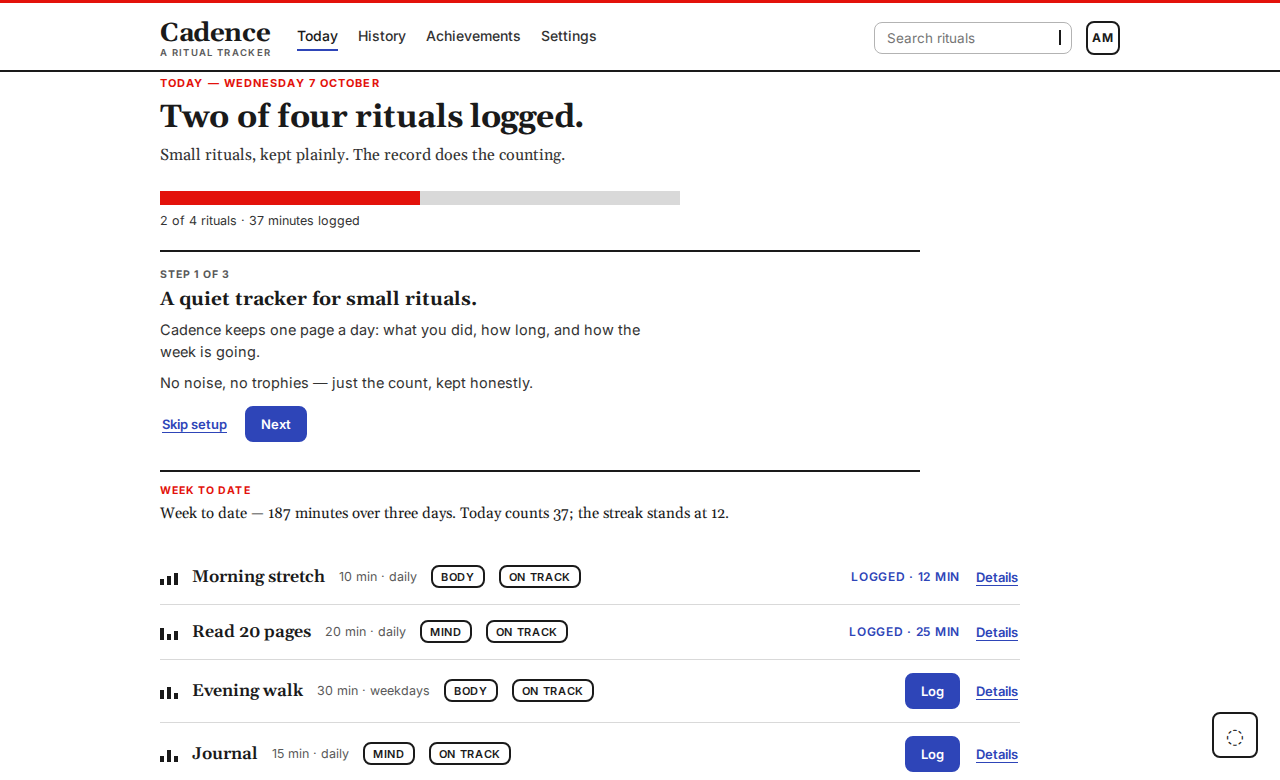
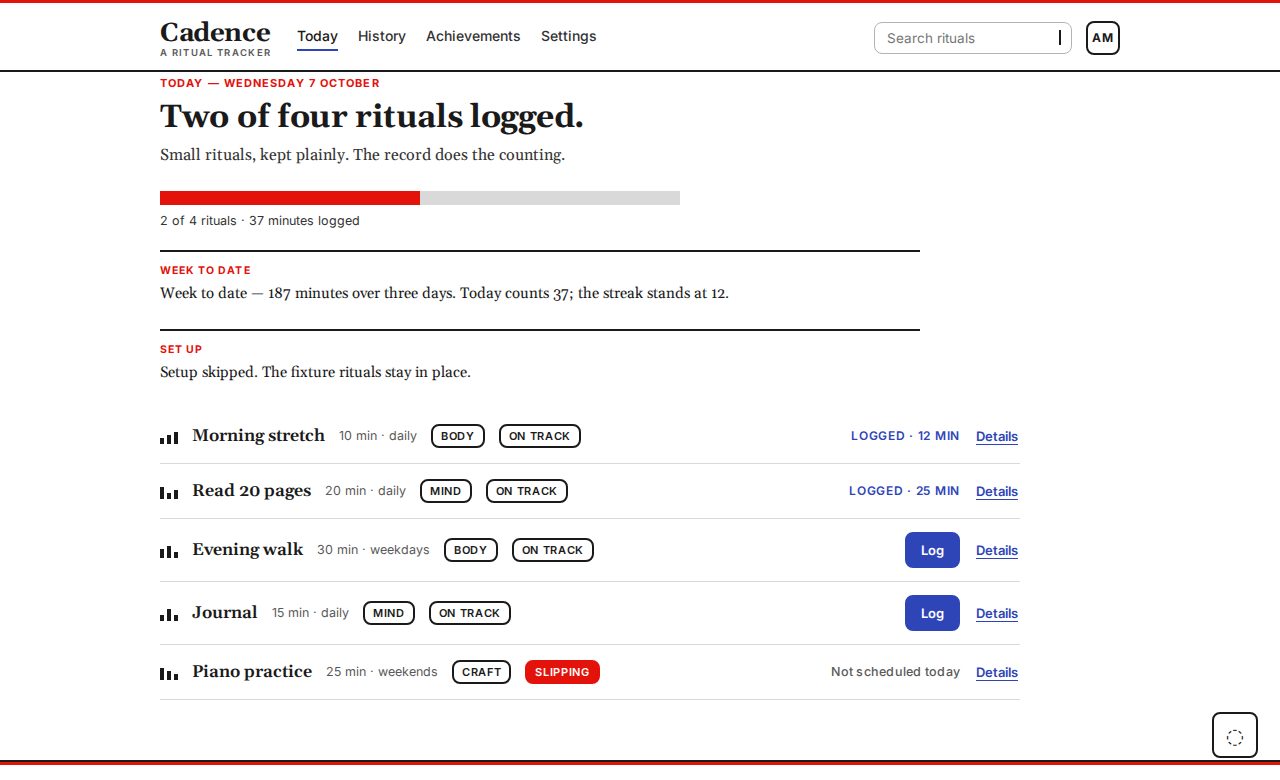
see-it-work: leader screenshot re-captured clean, wink+leader URLs cache-busted
- leader card had its 'STEP 1 OF 3 / Skip setup / Next' panel in frame; re-shot
  after clicking through the skip control
- wink + leader img srcs now carry ?v=2 so phone and CDN caches pick up the new
  files on next load (the old URLs were still cached for up to 4h; the files
  themselves were already correct)
- all three cards verified clean at mobile width; lint 0/0 score 100

Changed region(s): [[0.0, 0.3385, 1.0, 1.0]]

diff --git a/examples/designauthority-site/index.html b/examples/designauthority-site/index.html
@@ -59,14 +59,14 @@
     dashed element to inspect its case.</p>
     <div class="da-grid3" data-improv="app showcase" title="Improvised (no authority record; gap filed)">
       <div class="card da-appshot">
-        <img src="/assets/img/cadence-wink.png" alt="The Cadence habit tracker as built under the Wink authority">
+        <img src="/assets/img/cadence-wink.png?v=2" alt="The Cadence habit tracker as built under the Wink authority">
         <div class="da-appshot-body">
           <div class="card-h"><h3>Wink · expressive</h3></div>
           <p class="da-links mono"><a href="/authorities/wink/demo/cadence-v3/">Open the app</a> · <a href="/authorities/wink/demo/cadence-v3/#lens">open with the lens on</a></p>
         </div>
       </div>
       <div class="card da-appshot">
-        <img src="/assets/img/cadence-leader.png" alt="The Cadence habit tracker as built under the Leader authority">
+        <img src="/assets/img/cadence-leader.png?v=2" alt="The Cadence habit tracker as built under the Leader authority">
         <div class="da-appshot-body">
           <div class="card-h"><h3>Leader · editorial</h3></div>
           <p class="da-links mono"><a href="/authorities/leader/demo/cadence-v3/">Open the app</a></p>
